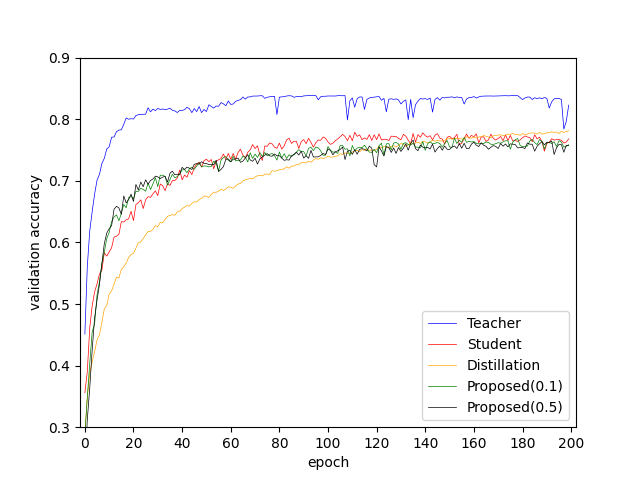
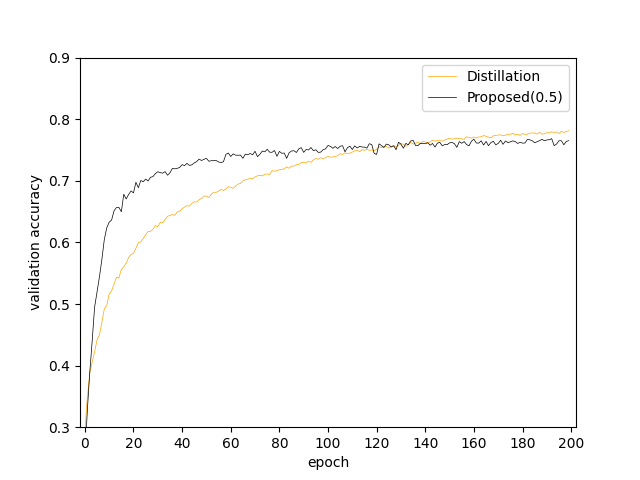
Experimt

diff --git a/train_cam.py b/train_cam.py
@@ -68,30 +68,29 @@ def main():
                 preds, student_features = student(images)
                 targets, teacher_features = teacher(images)
                 
-                student_cam = create_student_cam(student, images, labels, student_features, batch_size, device)
-                teacher_cam = create_teacher_cam(teacher, images, labels, teacher_features, batch_size, device)
-                camloss = cam_loss(student_cam, teacher_cam)
-                if cam_rate == '00':
-                    loss = camloss
-                elif cam_rate == '01':
-                    loss = 0.5*loss_fn(preds, labels) + 0.4*T*T*soft_loss(preds, targets) + 0.1*camloss
-                elif cam_rate == '02': 
-                    loss = 0.5*loss_fn(preds, labels) + 0.3*T*T*soft_loss(preds, targets) + 0.2*camloss
-                elif cam_rate == '03':
-                    loss = 0.5*loss_fn(preds, labels) + 0.2*T*T*soft_loss(preds, targets) + 0.3*camloss
-                elif cam_rate == '04':
-                    loss = 0.5*loss_fn(preds, labels) + 0.1*T*T*soft_loss(preds, targets) + 0.4*camloss
-                elif cam_rate == '05':
-                    loss = 0.5*loss_fn(preds, labels) + 0.5*camloss
+                # student_cam = create_student_cam(student, images, labels, student_features, batch_size, device)
+                # teacher_cam = create_teacher_cam(teacher, images, labels, teacher_features, batch_size, device)
+                # camloss = cam_loss(student_cam, teacher_cam)
+                # if cam_rate == '00':
+                #     loss = camloss
+                # elif cam_rate == '01':
+                #     loss = 0.5*loss_fn(preds, labels) + 0.4*T*T*soft_loss(preds, targets) + 0.1*camloss
+                # elif cam_rate == '02': 
+                #     loss = 0.5*loss_fn(preds, labels) + 0.3*T*T*soft_loss(preds, targets) + 0.2*camloss
+                # elif cam_rate == '03':
+                #     loss = 0.5*loss_fn(preds, labels) + 0.2*T*T*soft_loss(preds, targets) + 0.3*camloss
+                # elif cam_rate == '04':
+                #     loss = 0.5*loss_fn(preds, labels) + 0.1*T*T*soft_loss(preds, targets) + 0.4*camloss
+                # elif cam_rate == '05':
+                #     loss = 0.5*loss_fn(preds, labels) + 0.5*camloss
                 
                 # CAM Curriculum learning     
-                # if epoch <= 20:
-                #     student_cam = create_student_cam(student, images, labels, student_features, batch_size, device)
-                #     teacher_cam = create_teacher_cam(teacher, images, labels, teacher_features, batch_size, device)
-                #     # loss = 0.5*loss_fn(preds, labels) + 0.4*T*T*soft_loss(preds, targets) + 0.1*cam_loss(student_cam, teacher_cam)
-                #     loss = 0.5*loss_fn(preds, labels) + 0.5*cam_loss(student_cam, teacher_cam)
-                # else:
-                #     loss = 0.5*loss_fn(preds, labels) + 0.5*T*T*soft_loss(preds, targets)
+                if epoch <= 20:
+                    student_cam = create_student_cam(student, images, labels, student_features, batch_size, device)
+                    teacher_cam = create_teacher_cam(teacher, images, labels, teacher_features, batch_size, device)
+                    loss = 0.5*loss_fn(preds, labels) + 0.5*cam_loss(student_cam, teacher_cam)
+                else:
+                    loss = 0.5*loss_fn(preds, labels) + 0.5*T*T*soft_loss(preds, targets)
                 
                 optim.zero_grad()
                 loss.backward()

diff --git a/result.py b/result.py
@@ -28,7 +28,7 @@ def main():
             cam03_iter   = 10
             cam04_iter   = 10
             cam05_iter   = 1
-            cam10_iter   = 10 #NOW ice9(0)
+            cam10_iter   = 10
     elif model_type == 'normal':
         if epochs == 150:
             teacher_iter = 5
@@ -50,8 +50,8 @@ def main():
             cam02_iter   = 0 
             cam03_iter   = 0 
             cam04_iter   = 0 
-            cam05_iter   = 1 #NOW synapse(1), adaptpc(2)
-            cam10_iter   = 0 #TODO ice9(0)
+            cam05_iter   = 2 #NOW adaptpc(2)
+            cam10_iter   = 0 #TODO ice9(0,1,2)
     
     # setting path
     teacher_path = './history/' + str(model_type) + '/teacher/'
@@ -116,10 +116,10 @@ def main():
     fig.patch.set_facecolor('white')
     plt.xlabel('epoch')
     plt.ylabel('validation accuracy')
-    plt.plot(x, teacher_acc, label='Teacher',               linewidth=0.5, color='blue')
-    plt.plot(x, student_acc, label='Student',               linewidth=0.5, color='red')
+    # plt.plot(x, teacher_acc, label='Teacher',               linewidth=0.5, color='blue')
+    # plt.plot(x, student_acc, label='Student',               linewidth=0.5, color='red')
     plt.plot(x, st_acc,      label='Distillation',      linewidth=0.5, color='orange')
-    plt.plot(x, cam01_acc,   label='Proposed(0.1)',     linewidth=0.5, color='green')
+    # plt.plot(x, cam01_acc,   label='Proposed(0.1)',     linewidth=0.5, color='green')
     # plt.plot(x, cam02_acc,   label='Proposed(0.2)',     linewidth=0.5, color='magenta')
     # plt.plot(x, cam03_acc,   label='Proposed(0.3)',    linewidth=0.5, color='black')
     # plt.plot(x, cam04_acc,   label='Proposed(0.4)',    linewidth=0.5, color='brown')
@@ -133,7 +133,7 @@ def main():
         plt.ylim(0.30, 0.9)
     else: 
         plt.xticks(np.arange(0, epochs+10, epochs/10))
-        plt.yticks(np.arange(0, 1.0, 0.1))
+        plt.yticks(np.arange(0, 1.0, 0.05))
         plt.xlim(0, epochs+2)
         plt.ylim(0.60, 0.90)
     plt.legend()
